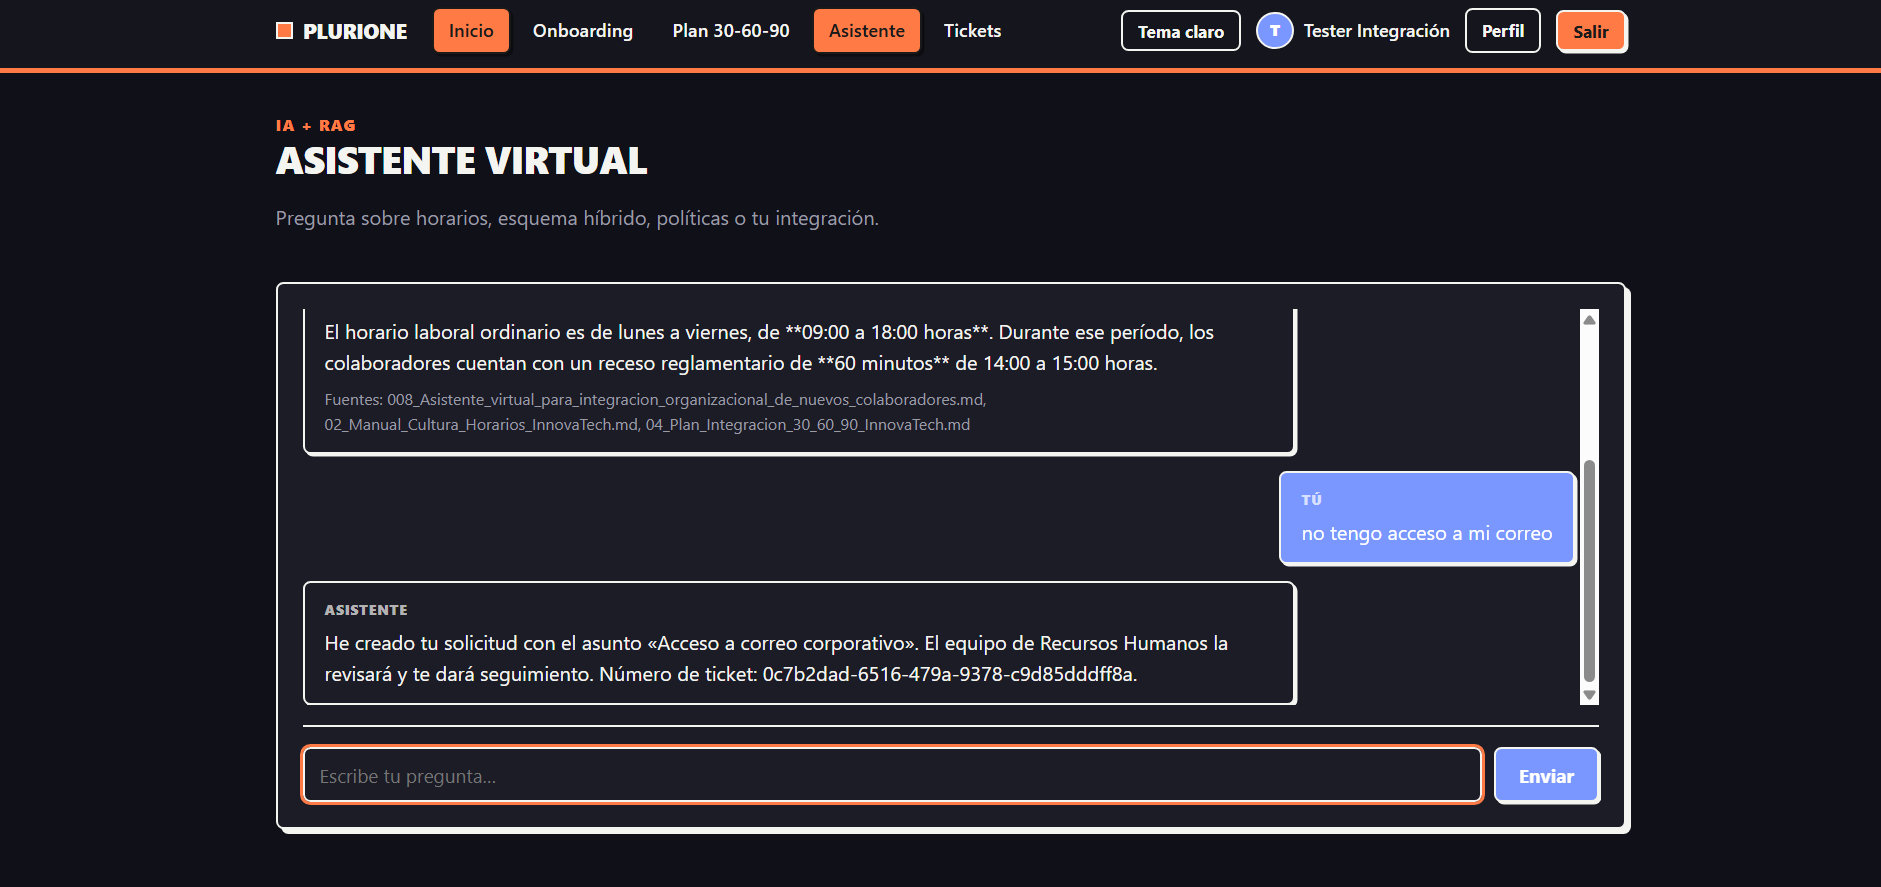
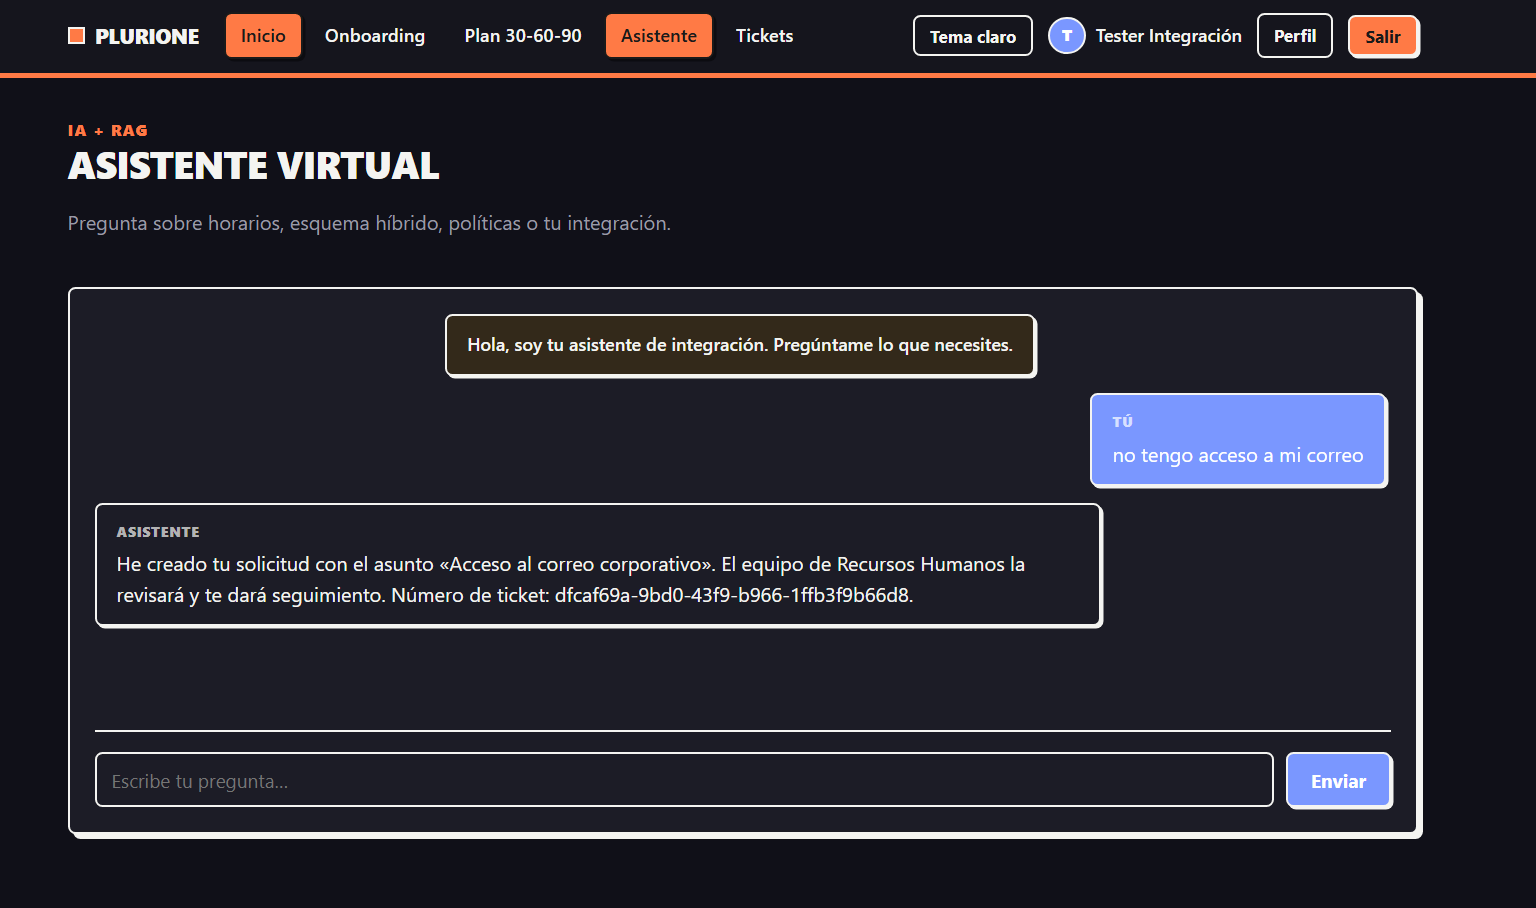
Agrega pruebas de helpers de traduccion; corrige README, .gitattributes y evidencia del recorrido

diff --git a/tests/PluriOne.Tests/HelpersTests.cs b/tests/PluriOne.Tests/HelpersTests.cs
@@ -1,0 +1,44 @@
+using PluriOne.Web.Helpers;
+using Xunit;
+
+namespace PluriOne.Tests;
+
+public class HelpersTests
+{
+    [Theory]
+    [InlineData("pending", "Pendiente")]
+    [InlineData("in_progress", "En proceso")]
+    [InlineData("completed", "Completada")]
+    [InlineData("otro_valor", "otro_valor")]
+    [InlineData(null, "")]
+    public void TaskItemStatus_traduce(string? valor, string esperado)
+        => Assert.Equal(esperado, TaskItemStatus.Label(valor));
+
+    [Theory]
+    [InlineData("low", "Baja")]
+    [InlineData("normal", "Normal")]
+    [InlineData("high", "Alta")]
+    [InlineData("otro_valor", "otro_valor")]
+    [InlineData(null, "")]
+    public void TicketPriority_traduce(string? valor, string esperado)
+        => Assert.Equal(esperado, TicketPriority.Label(valor));
+
+    [Theory]
+    [InlineData("colaborador", "Colaborador")]
+    [InlineData("rrhh", "Recursos Humanos")]
+    [InlineData("admin", "Administrador")]
+    [InlineData("otro_valor", "otro_valor")]
+    [InlineData(null, "")]
+    public void UserRole_traduce(string? valor, string esperado)
+        => Assert.Equal(esperado, UserRole.Label(valor));
+
+    [Theory]
+    [InlineData("open", "Abierta")]
+    [InlineData("in_progress", "En proceso")]
+    [InlineData("resolved", "Resuelta")]
+    [InlineData("closed", "Cerrada")]
+    [InlineData("otro_valor", "otro_valor")]
+    [InlineData(null, "")]
+    public void TicketStatus_traduce(string? valor, string esperado)
+        => Assert.Equal(esperado, TicketStatus.Label(valor));
+}

diff --git a/docs/evidencias/instalacion-limpia.md b/docs/evidencias/instalacion-limpia.md
@@ -1,0 +1,30 @@
+# Instalación en carpeta limpia — 26-oct-2026 · commit `887f606`
+
+Se clonó el repositorio en una carpeta nueva y se siguió el `README.md` al pie de la letra, sin copiar el `.env` de trabajo.
+
+| Paso | Qué hice | Resultado | Tiempo |
+|---|---|---|---|
+| 1 | `git clone` en `C:\Users\rrock\Desktop\Virtual Assistant v2\G19X-UPTAP-ARPA-965-ACADEMIC` | Bien | 1 min |
+| 2 | `cp .env.example .env` y completar `GROQ_API_KEY` + contraseñas (generadas aleatoriamente) | Bien | 3 min |
+| 3 | `docker compose up -d --build` | **Falla parcial**: `000_roles.sh` no ejecutable (saltos de línea CRLF del clon rompen el *shebang*). Corregido → ver nota abajo. | ~13 min |
+| 4 | `docker compose down -v` + `docker compose up -d` (tras corregir el script) | 8 servicios en `healthy` | ~1 min |
+| 5 | `docker exec -it plurione-ai-service python ingest_cli.py` | 4 documentos ingeridos, 3287 chunks | ~1 min |
+| 6 | Entrar como colaborador, RRHH y admin + preguntar al asistente | Responde con fuentes (RAG); recorrido e2e 15/15 | 2 min |
+
+## Problema encontrado y corregido
+
+El clon traía `infrastructure/postgres/init/000_roles.sh` con saltos de línea **CRLF** (por `core.autocrlf=true` sin `.gitattributes`). Al arrancar, `docker-entrypoint.sh` no pudo ejecutarlo:
+
+```
+/docker-entrypoint-initdb.d/000_roles.sh: cannot execute: required file not found
+```
+
+**Solución**: se convirtió el script a LF y se agregó un `.gitattributes` a la raíz del repositorio que fuerza `eol=lf` para `*.sh`, `*.sql`, `Dockerfile` y `*.conf`, para que no vuelva a ocurrir en clonaciones futuras. Tras el arreglo, los scripts `000_roles.sh`, `001_schema.sql` y `002_seed.sql` corrieron correctamente y las cuentas DEMO quedaron sembradas.
+
+## Cuentas DEMO verificadas
+
+| Rol | Usuario | Contraseña |
+|---|---|---|
+| Colaborador | `mariana.lopez@example.com` | `PluriOne#2026` |
+| RRHH | `rrhh@example.com` | `PluriOne#2026` |
+| Admin | `admin@example.com` | `PluriOne#2026` |

diff --git a/README.md b/README.md
@@ -116,6 +116,7 @@ Ver `.env.example`. Las principales:
 | `EMBEDDING_PROVIDER` | `hash` (sin dependencias) o `sentence-transformers` |
 | `EMBEDDING_DIM` | Dimensión de los embeddings (384) |
 | `SEED_DEMO` | `true` para crear las cuentas de demostración (solo desarrollo/demos) |
+| `DB_ERROR_DETAIL` | `true` muestra detalles de error de la BD (desarrollo); `false` los oculta (producción, valor por omisión) |
 
 **Los secretos nunca se suben al repositorio** (`.env` está en `.gitignore`).
 
@@ -170,7 +171,7 @@ Ver `docs/security/`.
 ## Pruebas
 
 ```bash
-# Pruebas unitarias .NET (25)
+# Pruebas unitarias .NET (47)
 dotnet test tests/PluriOne.Tests/PluriOne.Tests.csproj
 
 # Pruebas unitarias del AI Service (17)
@@ -182,9 +183,9 @@ python -m pytest tests -v
 python tests/e2e/integration_test.py
 ```
 
-Cobertura: Argon2id, JWT, autorización de HR (IDOR/roles), onboarding, ingesta/RAG, rate limiting, y flujos críticos (login por rol, RLS, escalamiento, RAG). Ver `docs/testing/`.
+Cobertura: Argon2id, JWT, autorización de HR (IDOR/roles), onboarding, ingesta/RAG, rate limiting, traducción de etiquetas (helpers web) y flujos críticos (login por rol, RLS, escalamiento, RAG). Ver `docs/testing/`.
 
-> Resultado verificado: 26 pruebas .NET, 17 de pytest y 15 del recorrido end-to-end, todas en verde (ver `docs/verification.md`).
+> Resultado verificado: 47 pruebas .NET, 17 de pytest y 15 del recorrido end-to-end, todas en verde (ver `docs/verification.md`).
 
 ---
 

diff --git a/docs/evidencias/README.md b/docs/evidencias/README.md
@@ -4,6 +4,8 @@ Esta carpeta contiene evidencia de que el sistema funciona de punta a punta.
 
 ## Recorrido end-to-end (automatizado)
 
+Última corrida: 26-oct-2026, commit `887f606`.
+
 `integration_test_output.txt` — salida de `tests/e2e/integration_test.py`, ejecutado con el stack en Docker.
 
 **Resultado: 15 comprobaciones correctas, 0 fallidas.**
@@ -15,6 +17,10 @@ El recorrido valida:
 3. Tickets: creación, aislamiento por propietario (RLS) y visibilidad para RRHH.
 4. Asistente (RAG): respuesta con streaming, fuentes citadas y término correcto.
 5. Panel admin: lista de usuarios y acceso restringido (403 para RRHH).
+
+## Instalación en carpeta limpia
+
+Ver [`instalacion-limpia.md`](instalacion-limpia.md): bitácora de la instalación desde cero siguiendo el `README.md` (26-oct-2026, commit `887f606`).
 
 ## Cómo reproducirlo
 
@@ -40,3 +46,12 @@ python tests/e2e/integration_test.py
 
 5. **Panel de Recursos Humanos** — lista de solicitudes.
    ![Panel de RRHH](panel-rrhh.png)
+
+6. **Negritas en la respuesta del asistente** — el texto se pinta al terminar el streaming.
+   ![Chat con negritas](chat-negritas.png)
+
+7. **Checklist con estados en español** — Pendiente, En proceso, Completada.
+   ![Checklist en español](checklist-estados-es.png)
+
+8. **Perfil con el rol en español** — Colaborador / Recursos Humanos / Administrador.
+   ![Perfil con rol en español](perfil-rol-es.png)

diff --git a/docs/testing/overview.md b/docs/testing/overview.md
@@ -6,12 +6,13 @@
 dotnet test tests/PluriOne.Tests/PluriOne.Tests.csproj
 ```
 
-Cobertura (25 pruebas):
+Cobertura (47 pruebas):
 
 - `PasswordHasherTests` — Argon2id (hash/verify, salting, sin texto plano).
 - `JwtTokenServiceTests` — claims, issuer/audiencia, validación.
 - `HrManagerTests` — creación de ticket (requester = usuario), rechazo de prioridad inválida, aislamiento por propietario (IDOR), listado para RRHH, prohibición de cambio de estado para colaborador, historial, comentarios, escalamiento (solo RRHH) y eliminación (solo resueltas/cerradas, por RRHH/admin).
 - `OnboardingManagerTests` — asignación de tareas, idempotencia, validación de estado, progreso.
+- `HelpersTests` — traducción de etiquetas (`TaskItemStatus`, `TicketPriority`, `UserRole` y `TicketStatus`): valores conocidos, desconocidos (se devuelven tal cual) y `null` (cadena vacía).
 
 ## Pruebas unitarias (AI Service — pytest)
 

diff --git a/docs/verification.md b/docs/verification.md
@@ -54,7 +54,7 @@ docker exec -it plurione-ai-service python ingest_cli.py
 ## 5. Pruebas automatizadas
 
 ```bash
-# .NET (26 pruebas)
+# .NET (47 pruebas)
 dotnet test tests/PluriOne.Tests/PluriOne.Tests.csproj
 
 # AI Service (17 pruebas)
@@ -63,3 +63,14 @@ cd services/ai-service && pip install pytest && python -m pytest tests -v
 # Integración end-to-end (requiere el stack arriba)
 python tests/e2e/integration_test.py
 ```
+
+## 6. Integración continua
+
+Última corrida en verde: 24-oct-2026, commit `887f606`.
+
+- Build y tests (.NET): 26 pruebas, correctas
+- Tests (AI Service): 17 pruebas, correctas
+
+Enlace: https://github.com/Itry-twice/G19X-UPTAP-ARPA-965-ACADEMIC/actions/runs/40057207111
+
+> Tras el commit de las pruebas de los helpers de traducción, el total de `.NET` pasa a 47 pruebas. Actualizar esta sección con la nueva corrida en verde al hacer el push.

diff --git a/docs/PRD.md b/docs/PRD.md
@@ -361,7 +361,7 @@ Ver `docs/architecture/`.
 | FASE 8 | QA y seguridad | ✅ Completado |
 | Post-MVP | Separación de roles + panel admin (usuarios, auditoría, KB) | ✅ Completado |
 | Post-MVP | Subida/listado/eliminación de documentos, reset de contraseña, modo oscuro, zona horaria MX | ✅ Completado |
-| Post-MVP | Pruebas unitarias .NET (25) + pytest AI Service (17) + integración end-to-end (15) | ✅ Completado |
+| Post-MVP | Pruebas unitarias .NET (47) + pytest AI Service (17) + integración end-to-end (15) | ✅ Completado |
 | Post-MVP | Repositorio Git + primer commit | ✅ Completado |
 | Post-MVP | Cierre formal del MVP | ✅ Completado |
 
